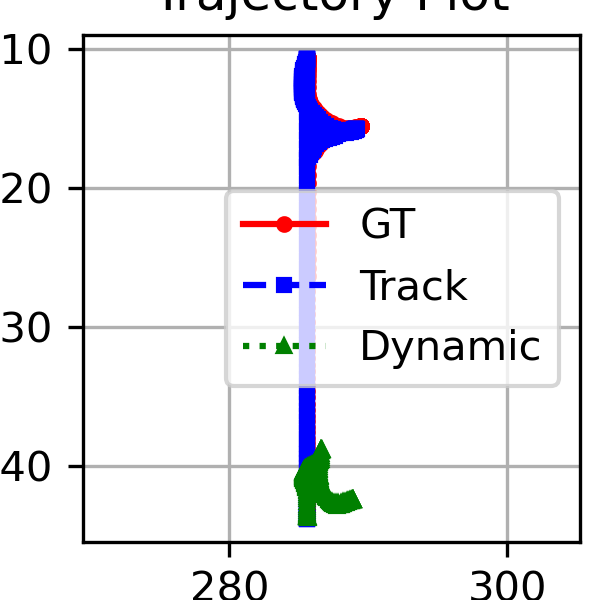
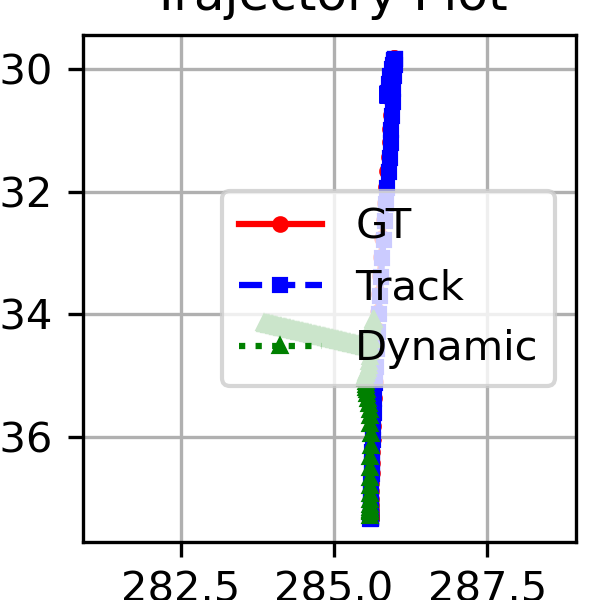
no grad loss now

diff --git a/trainer/pl_trainer.py b/trainer/pl_trainer.py
@@ -95,36 +95,36 @@ class ParkingTrainingModule(pl.LightningModule):
         pred_control, pred_waypoint, pred_segmentation, pred_depth, fuse_feature, approx_grad = self.parking_model(batch)
 
         control_loss = self.control_loss_func(pred_control, batch)
-        # loss_dict.update({
-        #     "control_loss": control_loss
-        # })
+        loss_dict.update({
+            "control_loss": control_loss*0.0 if self.current_epoch < self.perception_training_steps else control_loss
+        })
 
         waypoint_loss = self.waypoint_loss_func(pred_waypoint, batch)
-        # loss_dict.update({
-        #     "waypoint_loss": waypoint_loss
-        # })
+        loss_dict.update({
+            "waypoint_loss": waypoint_loss*0.0 if self.current_epoch < self.perception_training_steps else waypoint_loss
+        })
         # grad_gt = torch.autograd.grad(pred_control[:,1:13,:].mean(), fuse_feature, create_graph=True)[0]
-        grads = []
-        for b in range(pred_control.shape[0]): # B,12,256
-            grad = torch.autograd.grad(pred_control[b][1:13,:].mean(), fuse_feature, create_graph=True)[0]
-            grads.append(grad[b])
-        grad_gt = torch.stack(grads, dim=0)
-        refined_feature = approx_grad*fuse_feature
-        pred_control_2, pred_waypoint_2 = self.parking_model.forward_twice(refined_feature, batch)
-        control_loss_2 = self.control_loss_func(pred_control_2, batch)
-        loss_dict.update({
-            "control_loss": control_loss_2*0.0 if self.current_epoch < self.perception_training_steps else control_loss_2
-        })
+        # grads = []
+        # for b in range(pred_control.shape[0]): # B,12,256
+        #     grad = torch.autograd.grad(pred_control[b][1:13,:].mean(), fuse_feature, create_graph=True)[0]
+        #     grads.append(grad[b])
+        # grad_gt = torch.stack(grads, dim=0)
+        # refined_feature = approx_grad*fuse_feature
+        # pred_control_2, pred_waypoint_2 = self.parking_model.forward_twice(refined_feature, batch)
+        # control_loss_2 = self.control_loss_func(pred_control_2, batch)
+        # loss_dict.update({
+        #     "control_loss": control_loss_2*0.0 if self.current_epoch < self.perception_training_steps else control_loss_2
+        # })
 
-        grad_loss = F.mse_loss(approx_grad, grad_gt.detach())
-        loss_dict.update({
-            "grad_loss": grad_loss*0.0 if self.current_epoch < self.perception_training_steps else grad_loss
-        })
+        # grad_loss = F.mse_loss(approx_grad, grad_gt.detach())
+        # loss_dict.update({
+        #     "grad_loss": grad_loss*0.0 if self.current_epoch < self.perception_training_steps else grad_loss
+        # })
 
-        waypoint_loss_2 = self.waypoint_loss_func(pred_waypoint_2, batch)
-        loss_dict.update({
-            "waypoint_loss": waypoint_loss_2*0.0 if self.current_epoch < self.perception_training_steps else waypoint_loss_2
-        })
+        # waypoint_loss_2 = self.waypoint_loss_func(pred_waypoint_2, batch)
+        # loss_dict.update({
+        #     "waypoint_loss": waypoint_loss_2*0.0 if self.current_epoch < self.perception_training_steps else waypoint_loss_2
+        # })
 
         segmentation_loss = self.segmentation_loss_func(pred_segmentation.unsqueeze(1), batch['segmentation'])
         loss_dict.update({
@@ -152,25 +152,25 @@ class ParkingTrainingModule(pl.LightningModule):
 
             control_loss = self.control_loss_func(pred_control, batch)
             waypoint_loss = self.waypoint_loss_func(pred_waypoint, batch)
-            grads = []
-            for b in range(pred_control.shape[0]):
-                grad = torch.autograd.grad(pred_control[b][1:13,:].mean(), fuse_feature, create_graph=True)[0]
-                grads.append(grad[b])
-            grad_gt = torch.stack(grads, dim=0)
+            # grads = []
+            # for b in range(pred_control.shape[0]):
+            #     grad = torch.autograd.grad(pred_control[b][1:13,:].mean(), fuse_feature, create_graph=True)[0]
+            #     grads.append(grad[b])
+            # grad_gt = torch.stack(grads, dim=0)
             # grad_gt = torch.autograd.grad(pred_control[:,1:13,:].mean(), fuse_feature, create_graph=True)[0]
-            refined_feature = approx_grad*fuse_feature
-        pred_control_2, pred_waypoint_2 = self.parking_model.forward_twice(refined_feature, batch)
+        #     refined_feature = approx_grad*fuse_feature
+        # pred_control_2, pred_waypoint_2 = self.parking_model.forward_twice(refined_feature, batch)
 
-        acc_steer_val_loss, reverse_val_loss = self.control_val_loss_func(pred_control_2, batch)
+        acc_steer_val_loss, reverse_val_loss = self.control_val_loss_func(pred_control, batch)
         val_loss_dict.update({
             "acc_steer_val_loss": acc_steer_val_loss*0.0 if self.current_epoch < self.perception_training_steps else acc_steer_val_loss,
             "reverse_val_loss": reverse_val_loss*0.0 if self.current_epoch < self.perception_training_steps else reverse_val_loss
         })
-        grad_loss = F.mse_loss(approx_grad, grad_gt.detach())
-        val_loss_dict.update({
-            "grad_loss": grad_loss*0.0 if self.current_epoch < self.perception_training_steps else grad_loss
-        })
-        waypoint_loss = self.waypoint_loss_func(pred_waypoint_2, batch)
+        # grad_loss = F.mse_loss(approx_grad, grad_gt.detach())
+        # val_loss_dict.update({
+        #     "grad_loss": grad_loss*0.0 if self.current_epoch < self.perception_training_steps else grad_loss
+        # })
+        waypoint_loss = self.waypoint_loss_func(pred_waypoint, batch)
         val_loss_dict.update({
             "waypoint_val_loss": waypoint_loss*0.0 if self.current_epoch < self.perception_training_steps else waypoint_loss,
         })

diff --git a/carla_parking_eva.py b/carla_parking_eva.py
@@ -29,22 +29,22 @@ def game_loop(args):
 
         # Apply weather AFTER everything is initialized
         import time
-        time.sleep(0.2)
-        weather_0911_default = carla.WeatherParameters(
-            cloudiness=35.0,
-            precipitation=30.0,
-            precipitation_deposits=20.0,
-            wind_intensity=0.35,
-            sun_azimuth_angle=20.0,
-            sun_altitude_angle=25.0,
-            fog_density=2.0,
-            fog_distance=0.0,
-            fog_falloff=0.0,
-            wetness=20.0,
-        )
+        # time.sleep(0.2)
+        # weather_0911_default = carla.WeatherParameters(
+        #     cloudiness=35.0,
+        #     precipitation=30.0,
+        #     precipitation_deposits=20.0,
+        #     wind_intensity=0.35,
+        #     sun_azimuth_angle=20.0,
+        #     sun_altitude_angle=25.0,
+        #     fog_density=2.0,
+        #     fog_distance=0.0,
+        #     fog_falloff=0.0,
+        #     wetness=20.0,
+        # )
 
-        carla_world.set_weather(weather_0911_default)
-        time.sleep(0.1)
+        # carla_world.set_weather(weather_0911_default)
+        # time.sleep(0.1)
         print("Final weather:", carla_world.get_weather())
 
         display = pygame.display.set_mode((args.width, args.height),

diff --git a/agent/parking_agent.py b/agent/parking_agent.py
@@ -589,7 +589,7 @@ class ParkingAgent:
                                  vehicle_transform.location.y,
                                  imu_data.compass if np.isnan(imu_data.compass) else 0]
 
-        # self.player.apply_control(self.trans_control)
+        self.player.apply_control(self.trans_control)
 
     def speed_limit(self, data_frame):
         # if vehicle stops at initialization, give throttle until Gear turns to 1
